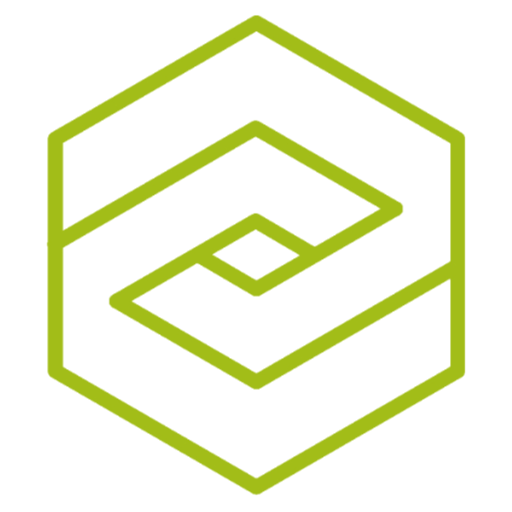
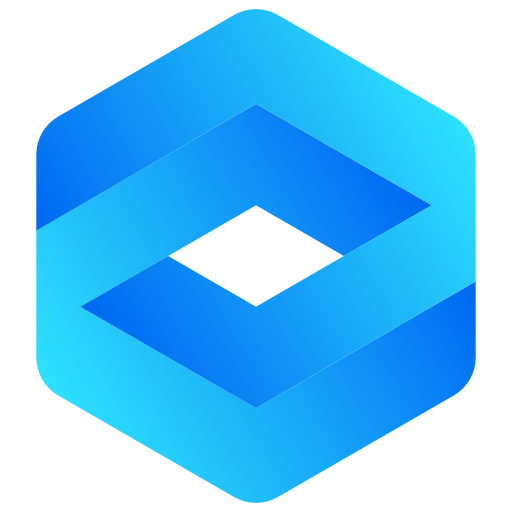
CRMT Digital

diff --git a/layouts/partials/nav.html b/layouts/partials/nav.html
@@ -1,7 +1,7 @@
   <nav class="navbar fixed-top navbar-expand-lg">
     <div class="container">
-      <a class="navbar-brand logo-white" href="/"><img src="https://d2texn0fmv1cgc.cloudfront.net/sites/default/files/logo-white.png" alt="CRMT Digital"></a>
-      <a class="navbar-brand logo-color" href="/"><img src="https://d2texn0fmv1cgc.cloudfront.net/sites/default/files/logo_1_0.png" alt="CRMT Digital"></a>	  
+      <a class="navbar-brand logo-white" href="/"><img src="/img/crmt-digital-white.svg" alt="CRMT Digital"></a>
+      <a class="navbar-brand logo-color" href="/"><img src="/img/crmt-digital-logo.svg" alt="CRMT Digital"></a>	  
       <button class="navbar-toggler navbar-toggler-right" type="button" data-toggle="collapse" data-target="#navbarResponsive" aria-controls="navbarResponsive" aria-expanded="false" aria-label="Toggle navigation">
         <span class="navbar-toggler-icon">
                 <span class="sr-only">Toggle navigation</span>

diff --git a/layouts/partials/head.html b/layouts/partials/head.html
@@ -24,7 +24,7 @@
 	<link rel="shortcut icon" href="/img/favicon.ico">
 	<link rel="apple-touch-icon" sizes="180x180" href="/img/apple-touch-icon.png">	
 	<link rel="manifest" href="/manifest.json">
-	<meta name="theme-color" content="#284b82">
+	<meta name="theme-color" content="#002D55">
 	
 	<!-- Google Tag Manager -->
 	<script>(function(w,d,s,l,i){w[l]=w[l]||[];w[l].push({'gtm.start':
